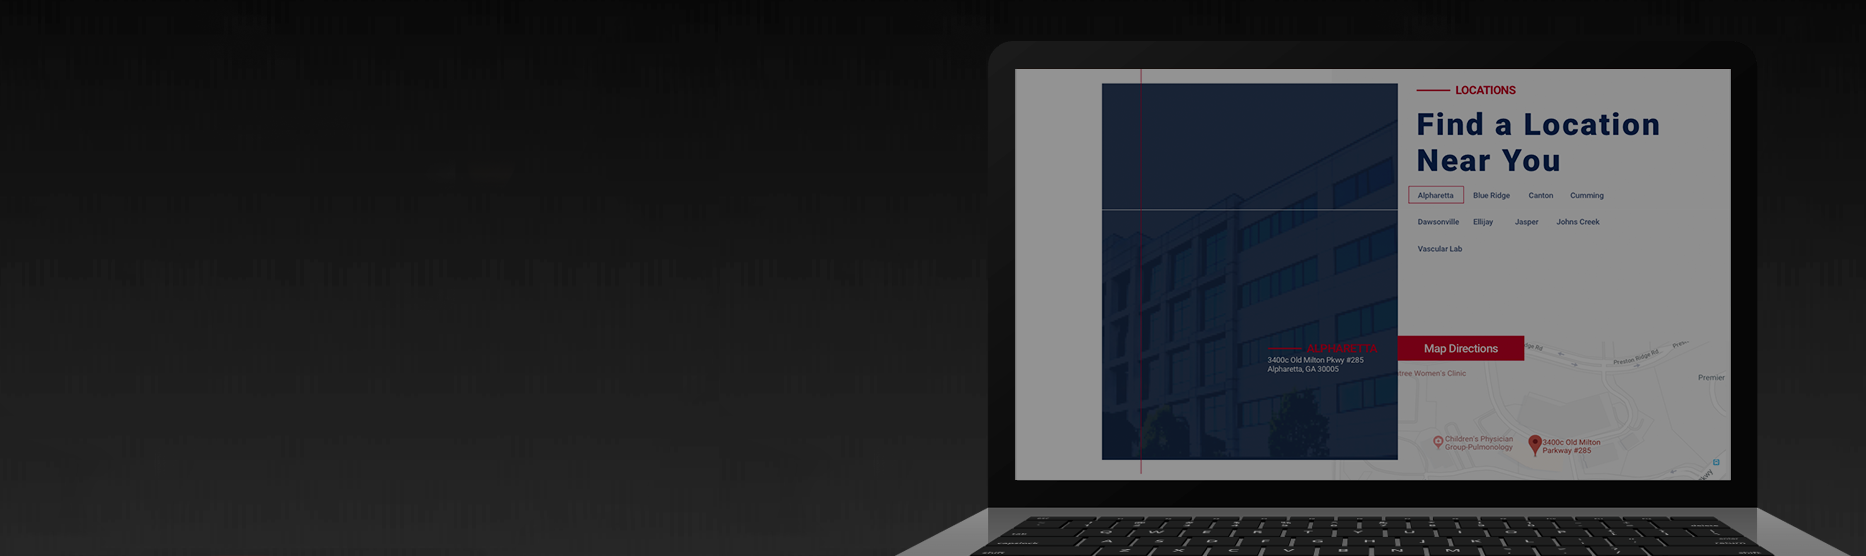
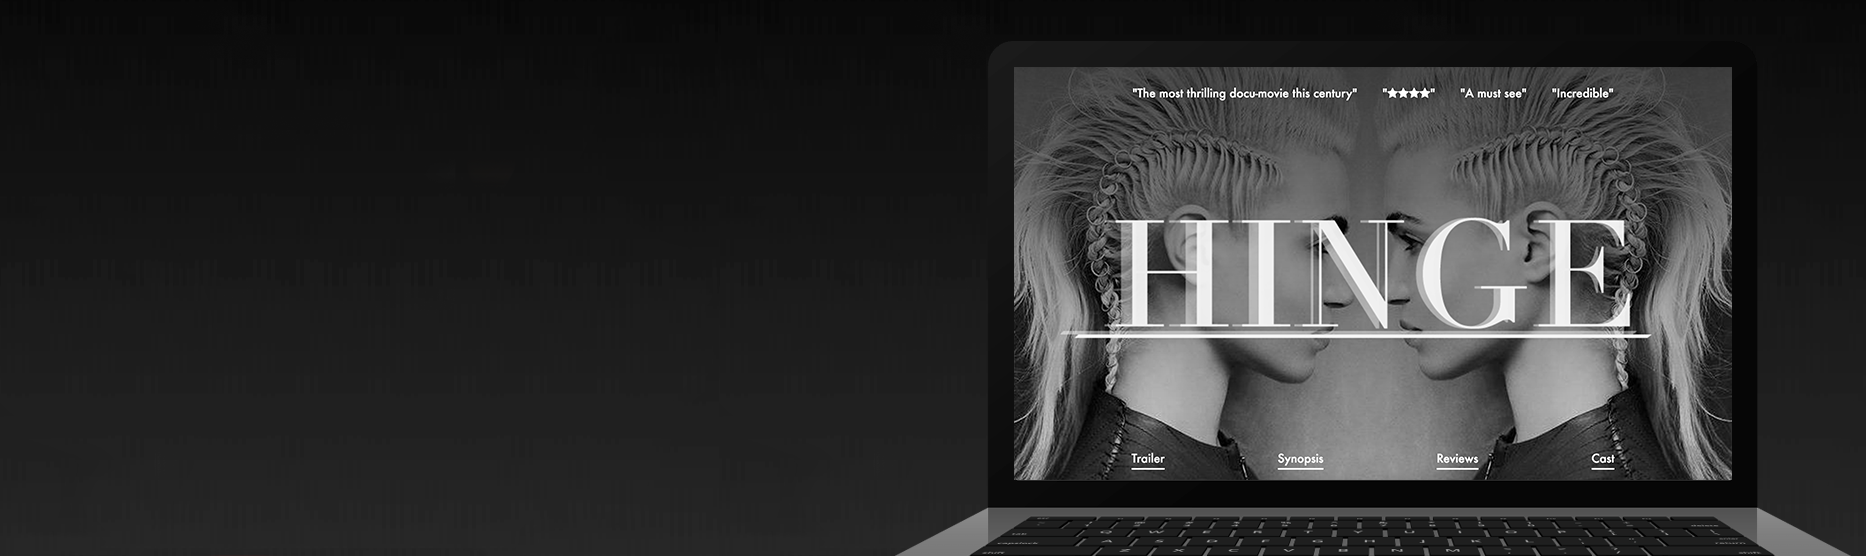
add hinge

Changed region(s): [[0.5284, 0.1223, 0.9325, 0.8867]]

diff --git a/index.html b/index.html
@@ -6,6 +6,8 @@
   <meta charset="UTF-8">
 
   <title>Taylor Brown</title>
+  <!-- Favicon -->
+  <link rel="icon" href="http://example.com/favicon.png">
   <!-- Typekit Fonts -->
 <link rel="stylesheet" href="https://use.typekit.net/jyh7ttc.css">
   <!-- CSS -->
@@ -125,10 +127,10 @@
               <img class="boximages" src="images/hvchomepage.png" style="max-width:100%"/>
               <img class="boximages2" src="images/hvcmedium.png" style="max-width:100%"/>
               <img class="boximages3" src="images/hvcsmall.png"  style="max-width:100%"/>
-              <h2 class="dcenter title-cap" >HVC</h2>
-              <h3 class="ecenter" >Design</h3>
-              <p class="ncenter">Homepage Layout</p>
-              <a href="https://invis.io/9NLAZLH8JHP#/304028879_Desktop_HD_Copy_27" class="btn"id="bottom-btn1">see design</a>
+              <h2 class="dcenter title-cap" >Hinge</h2>
+              <h3 class="ecenter" >Design, Development</h3>
+              <p class="ncenter">Movie promotion</p>
+              <a href="https://www.taylormariedesign.com/hinge-movie/" class="btn"id="bottom-btn1">see design</a>
         </div>
 </section>
 
